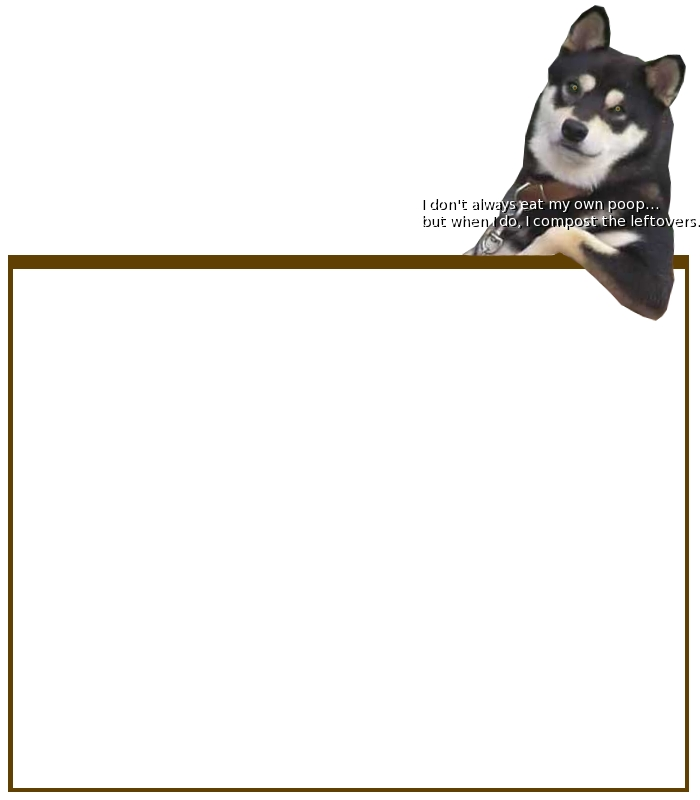
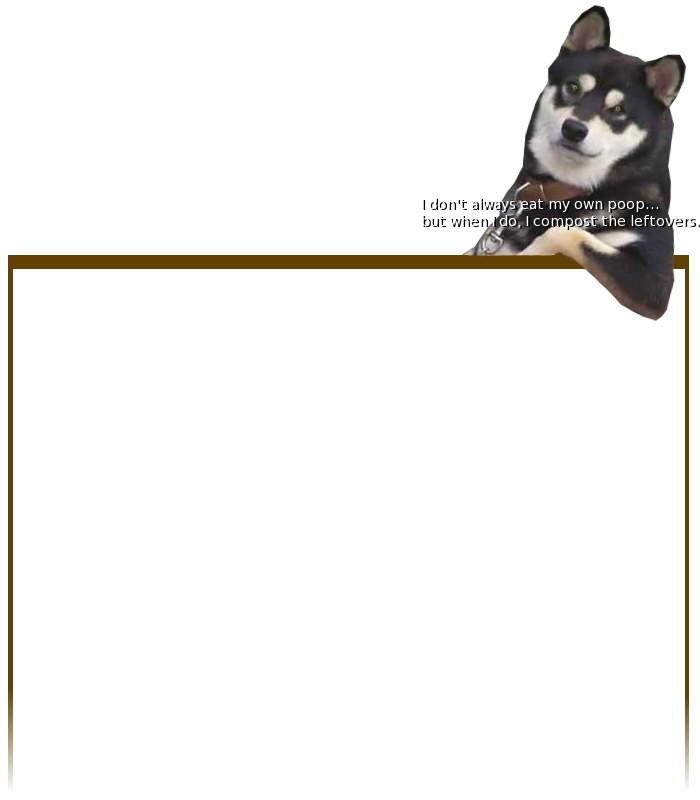
styling

Changed region(s): [[0.0, 0.875, 0.99, 1.0]]

diff --git a/app/assets/stylesheets/pages.css.scss b/app/assets/stylesheets/pages.css.scss
@@ -1,3 +1,43 @@
 #about{
+  background-image: image-url("dog2.jpg");
+  background-repeat: no-repeat;
+  # background-position: 480px -10px;
   
+  margin: 0 auto;
+  padding-left: 25px;
+  padding-top: 20px;
+  margin-bottom: 10px;
+  width: 700px;
+  .dog {
+    margin-bottom: 60px;
+    img {
+    background-image: image-url("doscompost.jpg");  
+    float:left;  
+    }
+    a{
+      margin-top: 80px;
+      float:right;
+      background:transparent;
+      width: 300px;
+      height: 150px;
+      display:block;
+    }
+    a:hover{
+      float:right;
+      text-decoration: none;
+      background-image: image-url("dog2-text.png");
+      background-repeat: no-repeat;
+      display:block;
+      width: 300px;
+      height: 150px;
+    }
+  }
+  .intro{
+    p,h4,ul,li {
+      width: 600px
+    }
+  }
+  h4 {
+    width: 550px
+  }
 }

diff --git a/app/assets/stylesheets/application.css b/app/assets/stylesheets/application.css
@@ -127,7 +127,11 @@ nav li {
 }
 
 nav a {
+	color: #696969;
 	text-decoration:none;
 	font-weight:bold;
 	display:block;
+}
+nav a:hover {
+	color: #b6b6b6;
 }

diff --git a/db/seeds.rb b/db/seeds.rb
@@ -1,8 +1,8 @@
 User.create!(:name => "brian", :email => "brian.joseff.14@dartmouth.edu", :password => "000000", :admin => true)
-Plan.create!(:name => "Once a Week & Your Own Bin", :price => 5)
-Plan.create!(:name => "Twice a Week & Your Own Bin", :price => 8)
-Plan.create!(:name => "Once a Week & Borrow-a-Bin", :price => 8)
-Plan.create!(:name => "Twice a Week & Borrow-a-Bin", :price => 11)
+Plan.create!(:name => "Basic Once-a-Week", :price => 5)
+Plan.create!(:name => "Twice-a-Week", :price => 8)
+Plan.create!(:name => "Once-a-Week & Borrow-a-Bin", :price => 8)
+Plan.create!(:name => "Twice-a-Week & Borrow-a-Bin", :price => 11)
 Building.create!(:name => "other")
 Building.create!(:name => "19 E. Wheelock")
 Building.create!(:name => "Alpha Chi Alpha")

diff --git a/config/routes.rb b/config/routes.rb
@@ -6,6 +6,7 @@ Compost::Application.routes.draw do
   match '/signout', :to => 'sessions#destroy'
   match '/signin', :to => 'sessions#new'
   match "about", :to => "pages#about"
+  match "faq", :to => "pages#faq"
   # The priority is based upon order of creation:
   # first created -> highest priority.
 

diff --git a/app/controllers/pages_controller.rb b/app/controllers/pages_controller.rb
@@ -2,4 +2,6 @@ class PagesController < ApplicationController
   skip_before_filter :admin_user
   def about
   end
+  def faq
+  end
 end
